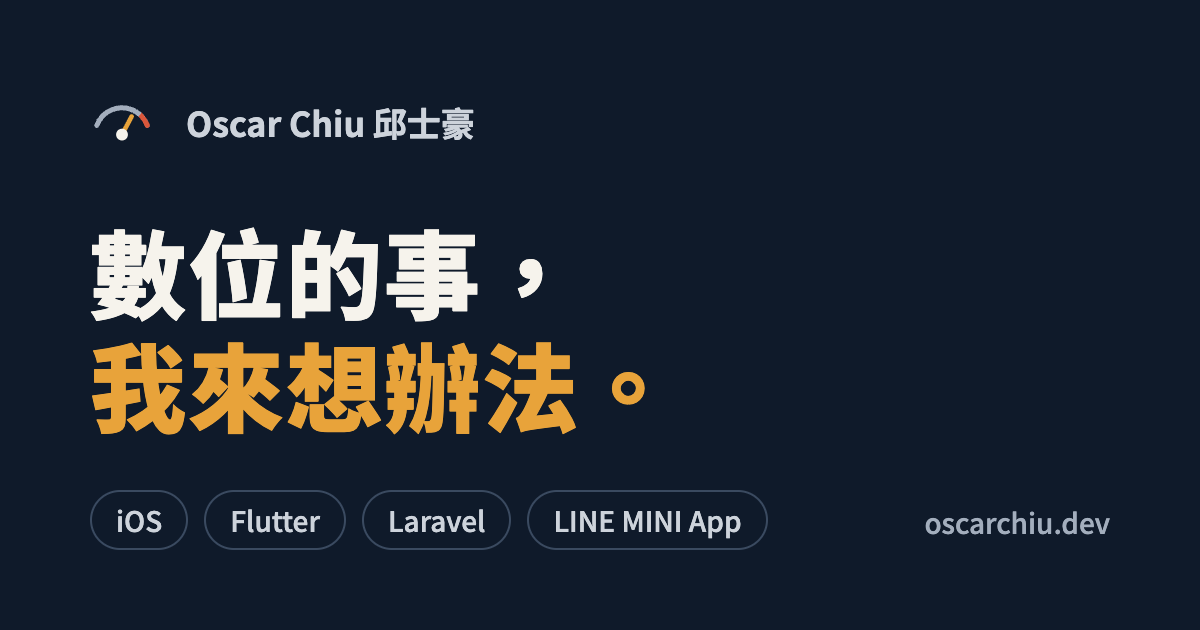
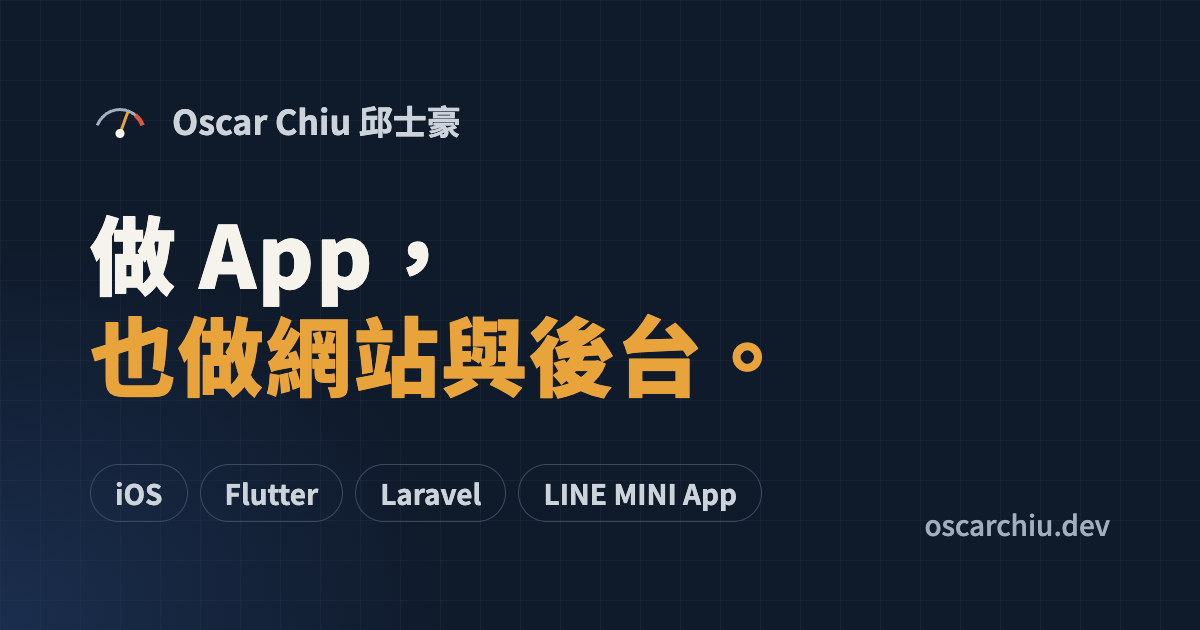
Replace the homepage slogan with a plain description of the work

diff --git a/index.html b/index.html
@@ -3,16 +3,16 @@
 <head>
 <meta charset="utf-8">
 <meta name="viewport" content="width=device-width, initial-scale=1">
-<title>Oscar Chiu｜數位的事，我來想辦法</title>
-<meta name="description" content="數位的事，我來想辦法。2013 年起開發 iOS，也做 Flutter、Laravel 網站與後台，從開發、上線到長期維運。">
-<meta property="og:title" content="Oscar Chiu｜數位的事，我來想辦法">
-<meta property="og:description" content="數位的事，我來想辦法。2013 年起開發 iOS，也做 Flutter、Laravel 網站與後台，從開發、上線到長期維運。">
+<title>Oscar Chiu 邱士豪｜App 與網站工程師</title>
+<meta name="description" content="App 與網站工程師。2013 年起開發 iOS，也做 Flutter、Laravel 網站與後台，從開發、上線到長期維運。">
+<meta property="og:title" content="Oscar Chiu 邱士豪｜App 與網站工程師">
+<meta property="og:description" content="App 與網站工程師。2013 年起開發 iOS，也做 Flutter、Laravel 網站與後台，從開發、上線到長期維運。">
 <meta property="og:url" content="https://oscarchiu.dev/">
 <meta property="og:type" content="website">
 <meta property="og:image" content="https://oscarchiu.dev/images/og-home.png">
 <meta property="og:image:width" content="1200">
 <meta property="og:image:height" content="630">
-<meta property="og:image:alt" content="Oscar Chiu 邱士豪：數位的事，我來想辦法。iOS、Flutter、Laravel、LINE MINI App">
+<meta property="og:image:alt" content="Oscar Chiu 邱士豪：做 App，也做網站與後台。iOS、Flutter、Laravel、LINE MINI App">
 <meta property="og:locale" content="zh_TW">
 <meta name="twitter:card" content="summary_large_image">
 <meta name="theme-color" content="#0F1A2A">
@@ -48,7 +48,7 @@
         </div>
         <p class="label amber">iOS ／ FLUTTER ／ LARAVEL<span class="since"> — SINCE 2013</span></p>
       </div>
-      <h1 data-i18n="hero.title">數位的事，<br>我來想辦法。</h1>
+      <h1 data-i18n="hero.title">做 App，<br>也做網站與後台。</h1>
       <p class="hero-lead" data-i18n="hero.lead">2013 年開始寫 iOS，也做 Laravel 網站與後台。在健康科技公司把檢測 App、後台和官網從開發做到上線，再一路維護到現在。</p>
       <div class="cta">
         <a class="btn" href="mailto:oscar@oscarchiu.dev" data-i18n="cta.mail">寄信洽談</a>

diff --git a/main.js b/main.js
@@ -17,7 +17,7 @@
     'nav.work': 'Work',
     'nav.notes': 'Experience',
     'nav.contact': 'Contact',
-    'hero.title': 'Your digital challenges,<br>I’ll find a way.',
+    'hero.title': 'I build apps,<br>and the web behind them.',
     'hero.lead': 'iOS developer since 2013, also building Laravel websites and admin backends. At a health-tech company I take diagnostic apps, their backends and the company websites from first build to launch, and keep them running.',
     'cta.mail': 'Email me',
     'cta.line': 'Chat on LINE',
@@ -56,7 +56,7 @@
   };
   var meta = {
     zh: { title: document.title, lang: 'zh-Hant-TW' },
-    en: { title: 'Oscar Chiu | Your digital challenges, I’ll find a way', lang: 'en' }
+    en: { title: 'Oscar Chiu | App & Web Developer', lang: 'en' }
   };
   var nodes = document.querySelectorAll('[data-i18n]');
   var zh = {};
